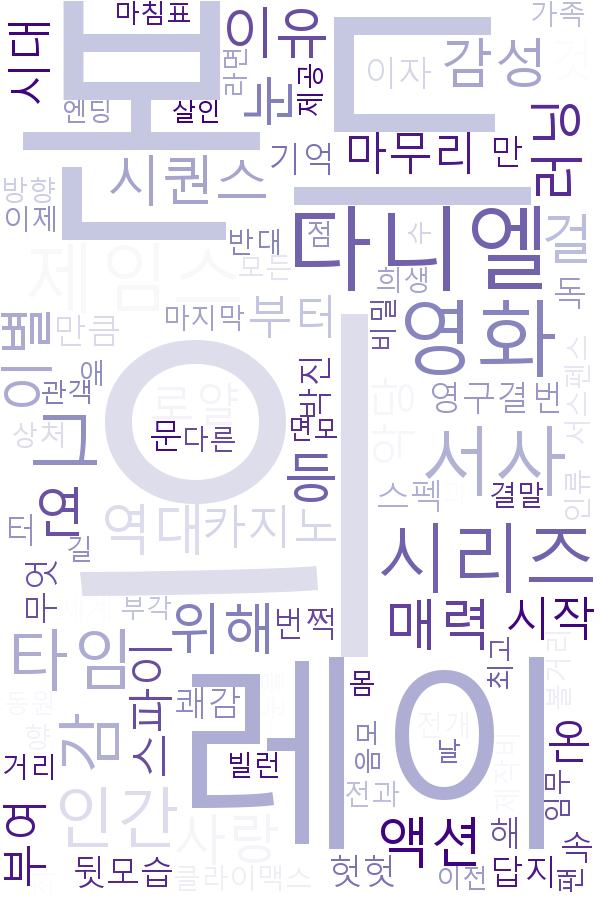
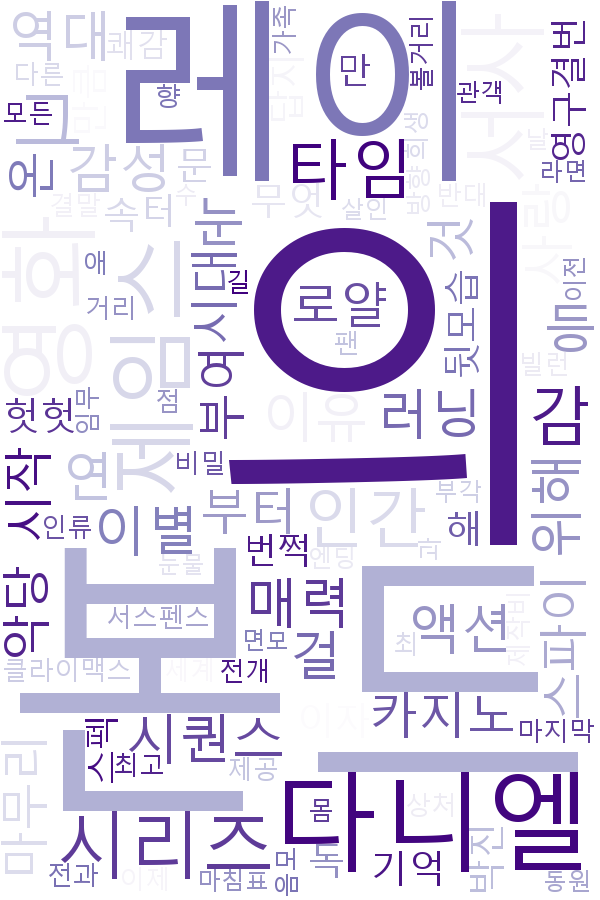
wordcloud crawling

diff --git a/movies/templates/movies/detail.html b/movies/templates/movies/detail.html
@@ -10,8 +10,13 @@
   <link rel="stylesheet" href="https://cdnjs.cloudflare.com/ajax/libs/font-awesome/6.0.0-beta2/css/all.min.css" integrity="sha512-YWzhKL2whUzgiheMoBFwW8CKV4qpHQAEuvilg9FAn5VJUDwKZZxkJNuGM4XkWuk94WCrrwslk8yWNGmY1EduTA==" crossorigin="anonymous" referrerpolicy="no-referrer" />
   <title>Document</title>
 <style>
-@import url('https://fonts.googleapis.com/css2?family=Nanum+Myeongjo&display=swap');
 {% comment %} 리뷰 목록 css {% endcomment %}
+@import url(//fonts.googleapis.com/earlyaccess/jejumyeongjo.css);
+
+.jejumyeongjo * { 
+ font-family: 'Jeju Myeongjo', serif;
+}
+
 .boxx {
   margin-bottom: 20px;
   border-radius: 15px;
@@ -26,7 +31,7 @@
 
 
 </head>
-<body style="font-family: 'Nanum Myeongjo', serif;">
+<body class="jejumyeongjo">
   {% include 'nav.html' %}
 
   
@@ -76,18 +81,18 @@
 
         {% if movie.review_set.all|length %}
           {% if average == 1 %}
-          <b>W.U 평점<b> | <i class="fas fa-star" style="color:#f389ef;"></i><i class="far fa-star"></i><i class="far fa-star"></i><i class="far fa-star"></i><i class="far fa-star"></i>
+          <b>W.U 평점</b> | <i class="fas fa-star" style="color:#f389ef;"></i><i class="far fa-star"></i><i class="far fa-star"></i><i class="far fa-star"></i><i class="far fa-star"></i>
           {% elif average == 2 %}
-          <b>W.U 평점<b> |<i class="fas fa-star" style="color:#f389ef;"></i><i class="fas fa-star" style="color:#D36eec;"></i><i class="far fa-star"></i><i class="far fa-star"></i><i class="far fa-star"></i>
+          <b>W.U 평점</b> |<i class="fas fa-star" style="color:#f389ef;"></i><i class="fas fa-star" style="color:#D36eec;"></i><i class="far fa-star"></i><i class="far fa-star"></i><i class="far fa-star"></i>
           {% elif average == 3 %}
-          <b>W.U 평점<b> |<i class="fas fa-star" style="color:#f389ef;"></i><i class="fas fa-star" style="color:#D36eec;"></i><i class="fas fa-star" style="color:#C65ff9;"></i><i class="far fa-star"></i><i class="far fa-star"></i>
+          <b>W.U 평점</b> |<i class="fas fa-star" style="color:#f389ef;"></i><i class="fas fa-star" style="color:#D36eec;"></i><i class="fas fa-star" style="color:#C65ff9;"></i><i class="far fa-star"></i><i class="far fa-star"></i>
           {% elif average == 4 %}
-          <b>W.U 평점<b> |<i class="fas fa-star" style="color:#f389ef;"></i><i class="fas fa-star" style="color:#D36eec;"></i><i class="fas fa-star" style="color:#C65ff9;"></i><i class="fas fa-star" style="color:#c12dff;"></i><i class="far fa-star"></i>
+          <b>W.U 평점</b> |<i class="fas fa-star" style="color:#f389ef;"></i><i class="fas fa-star" style="color:#D36eec;"></i><i class="fas fa-star" style="color:#C65ff9;"></i><i class="fas fa-star" style="color:#c12dff;"></i><i class="far fa-star"></i>
           {% elif average == 5 %}
-          <b>W.U 평점<b> |<i class="fas fa-star" style="color:#f389ef;"></i><i class="fas fa-star" style="color:#D36eec;"></i><i class="fas fa-star" style="color:#C65ff9;"></i><i class="fas fa-star" style="color:#c12dff;"></i><i class="fas fa-star" style="color:#9400d3;"></i>
+          <b>W.U 평점</b> |<i class="fas fa-star" style="color:#f389ef;"></i><i class="fas fa-star" style="color:#D36eec;"></i><i class="fas fa-star" style="color:#C65ff9;"></i><i class="fas fa-star" style="color:#c12dff;"></i><i class="fas fa-star" style="color:#9400d3;"></i>
           {% endif %}
         {% else %}
-          <b>W.U 평점<b> | <i class="far fa-star"></i><i class="far fa-star"></i><i class="far fa-star"></i><i class="far fa-star"></i><i class="far fa-star"></i>
+          <b>W.U 평점</b> | <i class="far fa-star"></i><i class="far fa-star"></i><i class="far fa-star"></i><i class="far fa-star"></i><i class="far fa-star"></i>
         {% endif %}
 
         <br><b>개요</b>

diff --git a/community/templates/community/index.html b/community/templates/community/index.html
@@ -11,6 +11,12 @@
   <script src="https://code.jquery.com/jquery-3.4.1.js" integrity="sha256-WpOohJOqMqqyKL9FccASB9O0KwACQJpFTUBLTYOVvVU=" crossorigin="anonymous"></script>
   <title>Document</title>
 <style>
+@import url(//fonts.googleapis.com/earlyaccess/jejumyeongjo.css);
+
+.jejumyeongjo * { 
+ font-family: 'Jeju Myeongjo', serif;
+}
+
 // font stuff
 @import url(https://fonts.googleapis.com/css?family=Source+Sans+Pro:400,200,300,600,700,900);
 
@@ -186,7 +192,7 @@ div.card {
 </head>
 
 
-<body class="bg-light bg-gradient">
+<body class="jejumyeongjo bg-light bg-gradient">
   {% include 'nav.html' %}
 
   {% block content %}

diff --git a/accounts/templates/accounts/profile.html b/accounts/templates/accounts/profile.html
@@ -9,6 +9,12 @@
   <link rel="stylesheet" type="text/css" href="https://cdn.jsdelivr.net/npm/slick-carousel@1.8.1/slick/slick.css"/>
   <title>Document</title>
 <style>
+@import url(//fonts.googleapis.com/earlyaccess/jejumyeongjo.css);
+
+.jejumyeongjo * { 
+ font-family: 'Jeju Myeongjo', serif;
+}
+
 /*post slider*/
 .post-slider{
   width:100%;
@@ -66,7 +72,7 @@
 
 
 </head>
-<body>
+<body class="jejumyeongjo">
   {% include 'nav.html' %}
 
   

diff --git a/naver_api.py b/naver_api.py
@@ -22,7 +22,7 @@ movies = Movie.objects.all()
 for movie in movies:
     title = movie.title
 
-    # # 드라이버 경로지정 => 해당 코드가 실행되면서 브라우저 열림
+    # 드라이버 경로지정 => 해당 코드가 실행되면서 브라우저 열림
     # driver = webdriver.Chrome("./chromedriver.exe")
 
     # url = 'https://movie.naver.com/'
@@ -66,33 +66,36 @@ for movie in movies:
 
     # ---------------------------------------------------------
     ## 워드클라우드
-    f = open('./files_crawling/' + title + '.txt', 'r', encoding='utf-8')
-    data = f.read()
+    try:
+        f = open('./files_crawling/' + title + '.txt', 'r', encoding='utf-8')
+        data = f.read()
 
-    if len(data) == 0: 
+        if len(data) == 0: 
+            continue
+            # pass
+        okt = Okt()
+        noun_data = okt.nouns(data)
+                
+        # 불용어 제거
+        stopword=[]
+        word=[i for i in noun_data if i not in stopword]
+        word=[i for i in word if len(i)>1]  
+
+        data_cnt=collections.Counter(noun_data) 
+
+        # font_name=font_manager.FontProperties(fname="C:/USERS/USER/APPDATA/LOCAL/MICROSOFT/WINDOWS/FONTS/A옛날사진관3.TTF"). get_name()
+        font_name=font_manager.FontProperties(fname="C:/Windows/Fonts/malgun.ttf"). get_name()
+        rc('font', family=font_name)
+
+        # wc=WordCloud(font_path="C:/USERS/USER/APPDATA/LOCAL/MICROSOFT/WINDOWS/FONTS/A옛날사진관3.TTF", width=900, height=500, colormap = 'RdPu', background_color='white', max_words=100, stopwords=STOPWORDS).generate_from_frequencies(data_cnt)
+        wc=WordCloud(font_path="C:/Windows/Fonts/malgun.ttf", width=600, height=900, colormap = 'Purples', background_color='white', max_words=100, stopwords=STOPWORDS).generate_from_frequencies(data_cnt)
+        # wordcloud.recolor(color_func = "colorbrewer.diverging.Spectral_11")
+        wc.to_file('static/'+ title +'.png')
+        plt.figure(figsize=(10,10))
+        plt.imshow(wc)
+        plt.axis('off')
+        plt.show(block=False)
+        plt.pause(0.3)
+        plt.close()
+    except OSError as e:
         continue
-        # pass
-    okt = Okt()
-    noun_data = okt.nouns(data)
-            
-    # 불용어 제거
-    stopword=[]
-    word=[i for i in noun_data if i not in stopword]
-    word=[i for i in word if len(i)>1]  
-
-    data_cnt=collections.Counter(noun_data) 
-
-    # font_name=font_manager.FontProperties(fname="C:/USERS/USER/APPDATA/LOCAL/MICROSOFT/WINDOWS/FONTS/A옛날사진관3.TTF"). get_name()
-    font_name=font_manager.FontProperties(fname="C:/Windows/Fonts/malgun.ttf"). get_name()
-    rc('font', family=font_name)
-
-    # wc=WordCloud(font_path="C:/USERS/USER/APPDATA/LOCAL/MICROSOFT/WINDOWS/FONTS/A옛날사진관3.TTF", width=900, height=500, colormap = 'RdPu', background_color='white', max_words=100, stopwords=STOPWORDS).generate_from_frequencies(data_cnt)
-    wc=WordCloud(font_path="C:/Windows/Fonts/malgun.ttf", width=600, height=900, colormap = 'Purples', background_color='white', max_words=100, stopwords=STOPWORDS).generate_from_frequencies(data_cnt)
-    # wordcloud.recolor(color_func = "colorbrewer.diverging.Spectral_11")
-    wc.to_file('static/'+ title +'.png')
-    plt.figure(figsize=(10,10))
-    plt.imshow(wc)
-    plt.axis('off')
-    plt.show(block=False)
-    plt.pause(0.3)
-    plt.close()

diff --git a/tmdb_api.py b/tmdb_api.py
@@ -12,12 +12,11 @@ from movies.models import Genre, Movie
 API_KEY = '5d898d026f62971327395d0f2504eef7'
 API_URL = 'https://api.themoviedb.org/3'
 
-language = 'ko-KR'
-region = 'KR'
+region='KR'
+language='ko'
 
 ## runtime
 def get_detail_credits(movie_id):
-
     detail_url = f'https://api.themoviedb.org/3/movie/{movie_id}?api_key={API_KEY}&language={language}'
     detail_response = requests.get(detail_url).json()
     
@@ -57,7 +56,7 @@ def get_detail_credits(movie_id):
 
 
 # # 영화
-for i in range(5, 6):
+for i in range(1, 5):
     movie_url = f'https://api.themoviedb.org/3/movie/popular?api_key={API_KEY}&language={language}&page={i}'
     movie_response = requests.get(movie_url).json().get('results')
 

diff --git a/accounts/views.py b/accounts/views.py
@@ -19,7 +19,7 @@ def signup(request):
         form = CustomUserCreationForm(request.POST)
         if form.is_valid():
             user = form.save() 
-            auth_login(request,user)
+            auth_login(request, user, backend='django.contrib.auth.backends.ModelBackend')
             return redirect('movies:home')
     else:
         form = CustomUserCreationForm()
